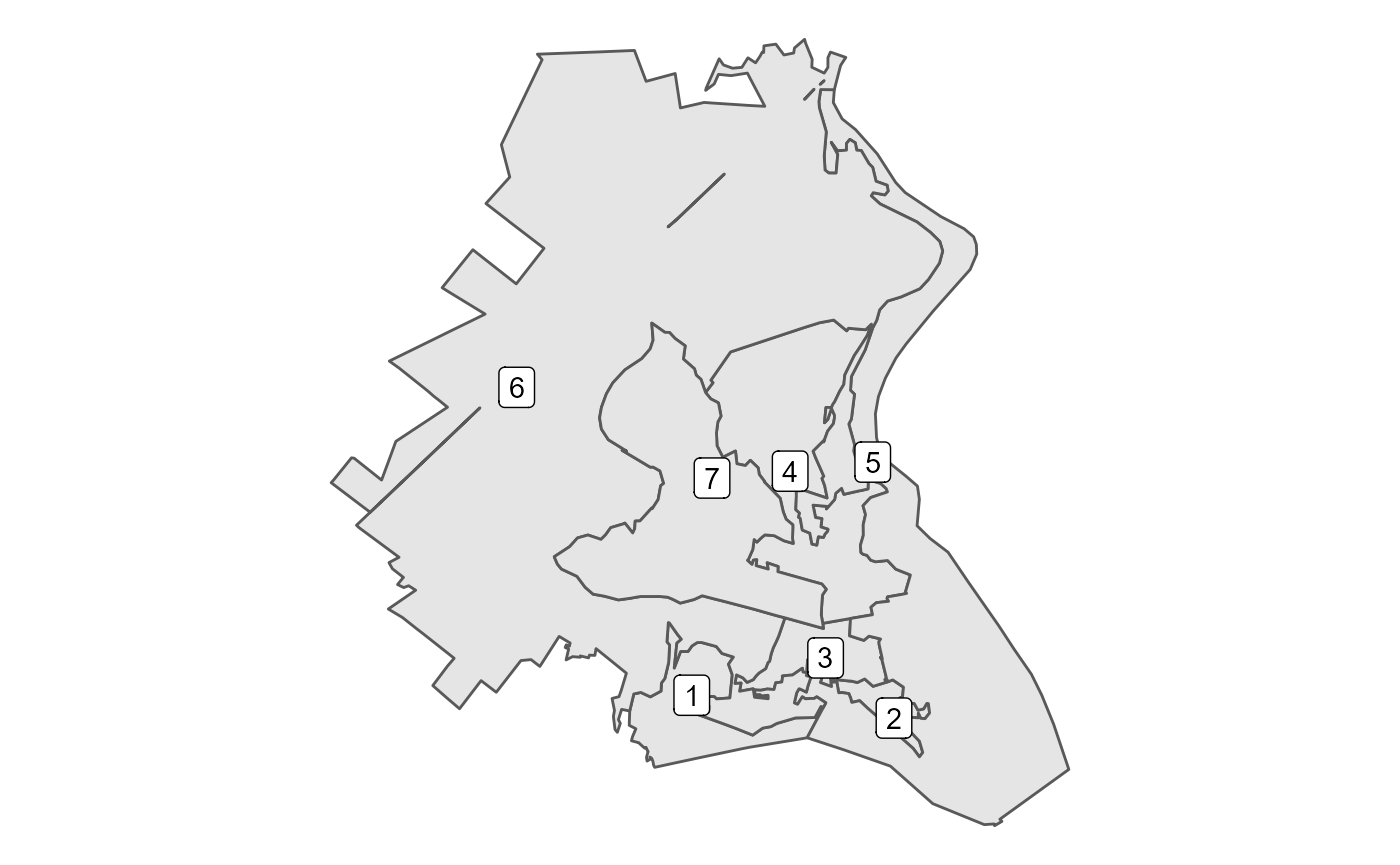
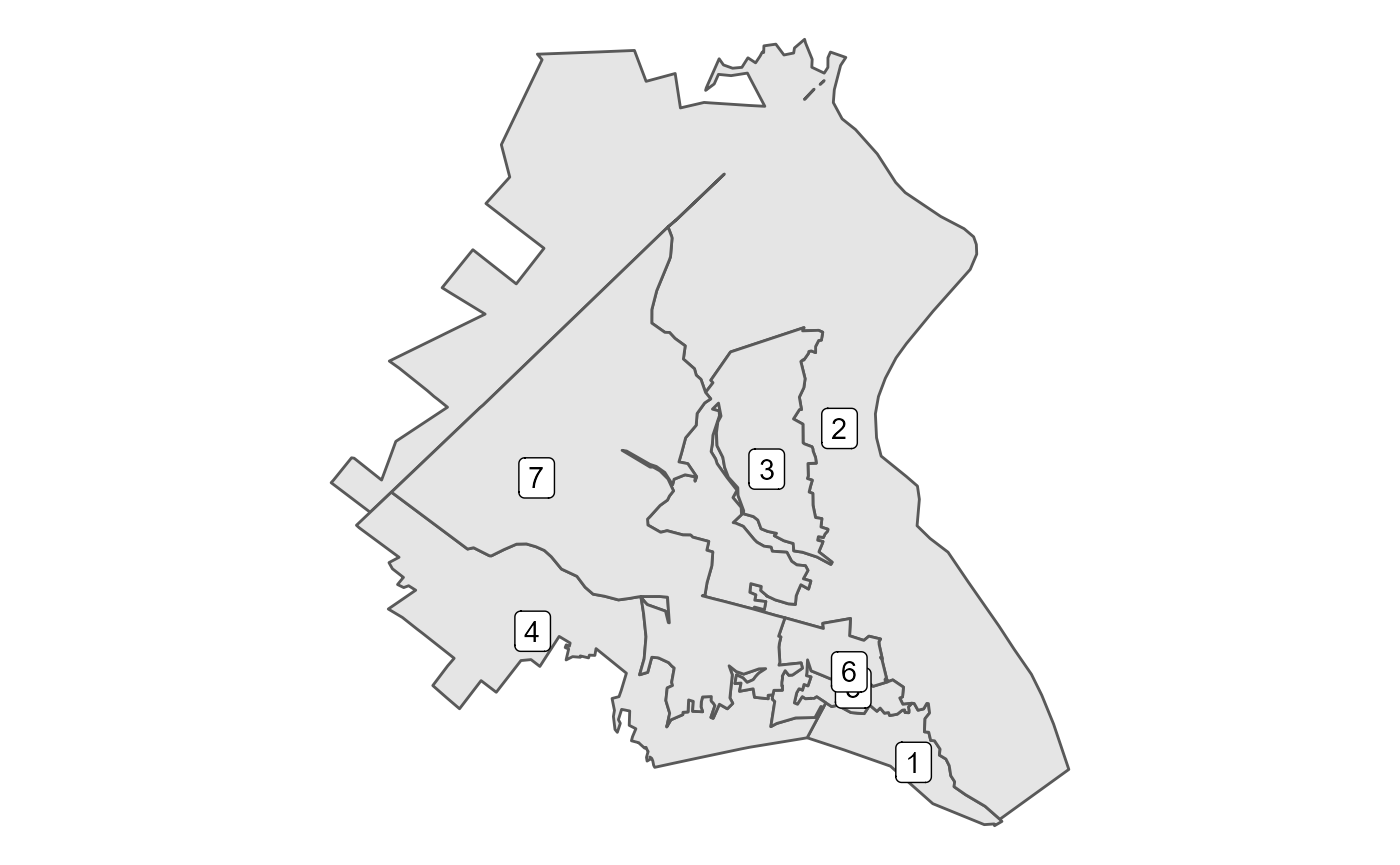
same blocks -> block

diff --git a/docs/articles/Redistricting_School_Districts.html b/docs/articles/Redistricting_School_Districts.html
@@ -109,15 +109,15 @@
 <span class="kw"><a href="https://rdrr.io/r/base/library.html">library</a></span><span class="op">(</span><span class="va"><a href="https://github.com/walkerke/tigris">tigris</a></span><span class="op">)</span></code></pre></div>
 <p>First, we want to build a block level dataset. The school district intersects two counties, though almost all of the population in the district comes from Rockland County. create_block_table allows you to build block level datasets with the primary variables needed for redistricting purposes - total population by race and voting age population (VAP) by race.</p>
 <div class="sourceCode" id="cb2"><pre class="downlit sourceCode r">
-<code class="sourceCode R"><span class="va">blocksRockland</span> <span class="op">&lt;-</span> <span class="fu"><a href="../reference/create_block_table.html">create_block_table</a></span><span class="op">(</span>state <span class="op">=</span> <span class="st">'NY'</span>, county <span class="op">=</span> <span class="st">'Rockland'</span><span class="op">)</span>
-<span class="va">blocksOrange</span> <span class="op">&lt;-</span> <span class="fu"><a href="../reference/create_block_table.html">create_block_table</a></span><span class="op">(</span>state <span class="op">=</span> <span class="st">'NY'</span>, county <span class="op">=</span> <span class="st">'Orange'</span><span class="op">)</span>
+<code class="sourceCode R"><span class="va">blockRockland</span> <span class="op">&lt;-</span> <span class="fu"><a href="../reference/create_block_table.html">create_block_table</a></span><span class="op">(</span>state <span class="op">=</span> <span class="st">'NY'</span>, county <span class="op">=</span> <span class="st">'Rockland'</span><span class="op">)</span>
+<span class="va">blockOrange</span> <span class="op">&lt;-</span> <span class="fu"><a href="../reference/create_block_table.html">create_block_table</a></span><span class="op">(</span>state <span class="op">=</span> <span class="st">'NY'</span>, county <span class="op">=</span> <span class="st">'Orange'</span><span class="op">)</span>
 
-<span class="va">blocks</span> <span class="op">&lt;-</span> <span class="fu"><a href="https://dplyr.tidyverse.org/reference/bind.html">bind_rows</a></span><span class="op">(</span><span class="va">blocksRockland</span>, <span class="va">blocksOrange</span><span class="op">)</span></code></pre></div>
+<span class="va">block</span> <span class="op">&lt;-</span> <span class="fu"><a href="https://dplyr.tidyverse.org/reference/bind.html">bind_rows</a></span><span class="op">(</span><span class="va">blockRockland</span>, <span class="va">blockOrange</span><span class="op">)</span></code></pre></div>
 <p>For this vignette, rather than running the above, we use included data. <code>orange</code> is a subset of Orange County which intersects with the school district. Rockland is the entire block dataset. These polygons are simplified using <code>rmapshaper</code> to make them smaller.</p>
 <div class="sourceCode" id="cb3"><pre class="downlit sourceCode r">
 <code class="sourceCode R"><span class="fu"><a href="https://rdrr.io/r/utils/data.html">data</a></span><span class="op">(</span><span class="st">"orange"</span><span class="op">)</span>
 <span class="fu"><a href="https://rdrr.io/r/utils/data.html">data</a></span><span class="op">(</span><span class="st">"rockland"</span><span class="op">)</span>
-<span class="va">blocks</span> <span class="op">&lt;-</span> <span class="fu"><a href="https://dplyr.tidyverse.org/reference/bind.html">bind_rows</a></span><span class="op">(</span><span class="va">rockland</span>, <span class="va">orange</span><span class="op">)</span></code></pre></div>
+<span class="va">block</span> <span class="op">&lt;-</span> <span class="fu"><a href="https://dplyr.tidyverse.org/reference/bind.html">bind_rows</a></span><span class="op">(</span><span class="va">rockland</span>, <span class="va">orange</span><span class="op">)</span></code></pre></div>
 <p>Next, we need the shape for North Rockland, which can be obtained from the R package tigris as below. The same idea holds for having target areas, such as counties or legislative districts, though they are less likely to directly use the block level data.</p>
 <div class="sourceCode" id="cb4"><pre class="downlit sourceCode r">
 <code class="sourceCode R"><span class="va">school</span> <span class="op">&lt;-</span> <span class="fu"><a href="https://rdrr.io/pkg/tigris/man/school_districts.html">school_districts</a></span><span class="op">(</span>state <span class="op">=</span> <span class="st">'NY'</span><span class="op">)</span> <span class="op">%&gt;%</span> <span class="fu"><a href="https://dplyr.tidyverse.org/reference/filter.html">filter</a></span><span class="op">(</span><span class="fu"><a href="https://stringr.tidyverse.org/reference/str_detect.html">str_detect</a></span><span class="op">(</span><span class="va">NAME</span>, <span class="st">'North Rockland'</span><span class="op">)</span><span class="op">)</span></code></pre></div>
@@ -127,35 +127,35 @@
 <span class="va">school</span> <span class="op">&lt;-</span> <span class="va">nrcsd</span></code></pre></div>
 <p>The immediate and common difficulty here is that we have nearly 15,000 blocks, but the target region, in this case the school district outlined in red is significantly smaller than that.</p>
 <div class="sourceCode" id="cb6"><pre class="downlit sourceCode r">
-<code class="sourceCode R"><span class="va">blocks</span> <span class="op">%&gt;%</span> <span class="fu"><a href="https://ggplot2.tidyverse.org/reference/ggplot.html">ggplot</a></span><span class="op">(</span><span class="op">)</span> <span class="op">+</span> 
+<code class="sourceCode R"><span class="va">block</span> <span class="op">%&gt;%</span> <span class="fu"><a href="https://ggplot2.tidyverse.org/reference/ggplot.html">ggplot</a></span><span class="op">(</span><span class="op">)</span> <span class="op">+</span> 
   <span class="fu"><a href="https://ggplot2.tidyverse.org/reference/ggsf.html">geom_sf</a></span><span class="op">(</span><span class="op">)</span> <span class="op">+</span>
   <span class="fu"><a href="https://ggplot2.tidyverse.org/reference/ggsf.html">geom_sf</a></span><span class="op">(</span>data <span class="op">=</span> <span class="va">school</span>, fill <span class="op">=</span> <span class="cn">NA</span>, color <span class="op">=</span> <span class="st">'red'</span><span class="op">)</span> <span class="op">+</span>
   <span class="fu"><a href="https://ggplot2.tidyverse.org/reference/ggtheme.html">theme_void</a></span><span class="op">(</span><span class="op">)</span></code></pre></div>
 <p><img src="Redistricting_School_Districts_files/figure-html/unnamed-chunk-5-1.png" width="700"> As a first pass, we can use the geo_filter function, which wraps sf’s st_intersects and filters only to those that intersect.</p>
 <div class="sourceCode" id="cb7"><pre class="downlit sourceCode r">
-<code class="sourceCode R"><span class="va">blocks</span> <span class="op">&lt;-</span> <span class="va">blocks</span> <span class="op">%&gt;%</span> <span class="fu"><a href="../reference/geo_filter.html">geo_filter</a></span><span class="op">(</span>to <span class="op">=</span> <span class="va">school</span><span class="op">)</span></code></pre></div>
-<p>This drops us down to 852 blocks and is a conservative filtering, as you only need to intersect at a single point.</p>
+<code class="sourceCode R"><span class="va">block</span> <span class="op">&lt;-</span> <span class="va">block</span> <span class="op">%&gt;%</span> <span class="fu"><a href="../reference/geo_filter.html">geo_filter</a></span><span class="op">(</span>to <span class="op">=</span> <span class="va">school</span><span class="op">)</span></code></pre></div>
+<p>This drops us down to 852 block and is a conservative filtering, as you only need to intersect at a single point.</p>
 <div class="sourceCode" id="cb8"><pre class="downlit sourceCode r">
-<code class="sourceCode R"><span class="va">blocks</span> <span class="op">%&gt;%</span> <span class="fu"><a href="https://dplyr.tidyverse.org/reference/mutate.html">mutate</a></span><span class="op">(</span>id <span class="op">=</span> <span class="fu"><a href="https://dplyr.tidyverse.org/reference/ranking.html">row_number</a></span><span class="op">(</span><span class="op">)</span><span class="op">)</span> <span class="op">%&gt;%</span> 
+<code class="sourceCode R"><span class="va">block</span> <span class="op">%&gt;%</span> <span class="fu"><a href="https://dplyr.tidyverse.org/reference/mutate.html">mutate</a></span><span class="op">(</span>id <span class="op">=</span> <span class="fu"><a href="https://dplyr.tidyverse.org/reference/ranking.html">row_number</a></span><span class="op">(</span><span class="op">)</span><span class="op">)</span> <span class="op">%&gt;%</span> 
   <span class="fu"><a href="https://ggplot2.tidyverse.org/reference/ggplot.html">ggplot</a></span><span class="op">(</span><span class="op">)</span> <span class="op">+</span> <span class="fu"><a href="https://ggplot2.tidyverse.org/reference/ggsf.html">geom_sf</a></span><span class="op">(</span><span class="op">)</span> <span class="op">+</span>
   <span class="fu"><a href="https://ggplot2.tidyverse.org/reference/ggsf.html">geom_sf</a></span><span class="op">(</span>data <span class="op">=</span> <span class="va">school</span>, fill <span class="op">=</span> <span class="cn">NA</span>, color <span class="op">=</span> <span class="st">'red'</span><span class="op">)</span> </code></pre></div>
 <p><img src="Redistricting_School_Districts_files/figure-html/unnamed-chunk-7-1.png" width="700"> Yet, we probably want to go further than that, getting rid of the various external pieces. We can use geo_trim to do just that. First, we want to check what would be thrown away at the default area threshold of 1%. Below, I’ve first checked what would be trimmed away, by setting bool = TRUE and plotting it.</p>
 <div class="sourceCode" id="cb9"><pre class="downlit sourceCode r">
-<code class="sourceCode R"><span class="va">blocks</span><span class="op">$</span><span class="va">trim</span> <span class="op">&lt;-</span> <span class="va">blocks</span> <span class="op">%&gt;%</span> <span class="fu"><a href="../reference/geo_trim.html">geo_trim</a></span><span class="op">(</span>to <span class="op">=</span> <span class="va">school</span>, bool <span class="op">=</span> <span class="cn">TRUE</span><span class="op">)</span></code></pre></div>
+<code class="sourceCode R"><span class="va">block</span><span class="op">$</span><span class="va">trim</span> <span class="op">&lt;-</span> <span class="va">block</span> <span class="op">%&gt;%</span> <span class="fu"><a href="../reference/geo_trim.html">geo_trim</a></span><span class="op">(</span>to <span class="op">=</span> <span class="va">school</span>, bool <span class="op">=</span> <span class="cn">TRUE</span><span class="op">)</span></code></pre></div>
 <pre><code>## Warning: attribute variables are assumed to be spatially constant throughout all
 ## geometries</code></pre>
 <div class="sourceCode" id="cb11"><pre class="downlit sourceCode r">
-<code class="sourceCode R"><span class="va">blocks</span> <span class="op">%&gt;%</span> <span class="fu"><a href="https://ggplot2.tidyverse.org/reference/ggplot.html">ggplot</a></span><span class="op">(</span><span class="op">)</span> <span class="op">+</span> <span class="fu"><a href="https://ggplot2.tidyverse.org/reference/ggsf.html">geom_sf</a></span><span class="op">(</span><span class="fu"><a href="https://ggplot2.tidyverse.org/reference/aes.html">aes</a></span><span class="op">(</span>fill <span class="op">=</span> <span class="va">trim</span><span class="op">)</span><span class="op">)</span> <span class="op">+</span> 
+<code class="sourceCode R"><span class="va">block</span> <span class="op">%&gt;%</span> <span class="fu"><a href="https://ggplot2.tidyverse.org/reference/ggplot.html">ggplot</a></span><span class="op">(</span><span class="op">)</span> <span class="op">+</span> <span class="fu"><a href="https://ggplot2.tidyverse.org/reference/ggsf.html">geom_sf</a></span><span class="op">(</span><span class="fu"><a href="https://ggplot2.tidyverse.org/reference/aes.html">aes</a></span><span class="op">(</span>fill <span class="op">=</span> <span class="va">trim</span><span class="op">)</span><span class="op">)</span> <span class="op">+</span> 
   <span class="fu"><a href="https://ggplot2.tidyverse.org/reference/ggsf.html">geom_sf</a></span><span class="op">(</span>data <span class="op">=</span> <span class="va">school</span>, fill <span class="op">=</span> <span class="cn">NA</span>, lwd <span class="op">=</span> <span class="fl">1.5</span><span class="op">)</span></code></pre></div>
 <p><img src="Redistricting_School_Districts_files/figure-html/unnamed-chunk-8-1.png" width="700"></p>
 <p>To me, it looks like we are subsetting correctly with this threshold, so we actually trim away this time.</p>
 <div class="sourceCode" id="cb12"><pre class="downlit sourceCode r">
-<code class="sourceCode R"><span class="va">blocks</span> <span class="op">&lt;-</span> <span class="va">blocks</span> <span class="op">%&gt;%</span> <span class="fu"><a href="../reference/geo_trim.html">geo_trim</a></span><span class="op">(</span>to <span class="op">=</span> <span class="va">school</span><span class="op">)</span></code></pre></div>
+<code class="sourceCode R"><span class="va">block</span> <span class="op">&lt;-</span> <span class="va">block</span> <span class="op">%&gt;%</span> <span class="fu"><a href="../reference/geo_trim.html">geo_trim</a></span><span class="op">(</span>to <span class="op">=</span> <span class="va">school</span><span class="op">)</span></code></pre></div>
 <pre><code>## Warning: attribute variables are assumed to be spatially constant throughout all
 ## geometries</code></pre>
 <p>And indeed, just plotting the block geographies looks like the school district from before. The edges will be a bit off due to polygon simplification.</p>
 <div class="sourceCode" id="cb14"><pre class="downlit sourceCode r">
-<code class="sourceCode R"><span class="va">blocks</span> <span class="op">%&gt;%</span> <span class="fu"><a href="https://ggplot2.tidyverse.org/reference/ggplot.html">ggplot</a></span><span class="op">(</span><span class="op">)</span> <span class="op">+</span>
+<code class="sourceCode R"><span class="va">block</span> <span class="op">%&gt;%</span> <span class="fu"><a href="https://ggplot2.tidyverse.org/reference/ggplot.html">ggplot</a></span><span class="op">(</span><span class="op">)</span> <span class="op">+</span>
   <span class="fu"><a href="https://ggplot2.tidyverse.org/reference/ggsf.html">geom_sf</a></span><span class="op">(</span><span class="op">)</span> <span class="op">+</span>
   <span class="fu"><a href="https://ggplot2.tidyverse.org/reference/ggtheme.html">theme_void</a></span><span class="op">(</span><span class="op">)</span> <span class="op">+</span> 
   <span class="fu"><a href="https://ggplot2.tidyverse.org/reference/ggsf.html">geom_sf</a></span><span class="op">(</span>data <span class="op">=</span> <span class="va">school</span>, color <span class="op">=</span> <span class="st">'red'</span>, fill <span class="op">=</span> <span class="cn">NA</span><span class="op">)</span></code></pre></div>
@@ -164,57 +164,57 @@
 <div class="sourceCode" id="cb15"><pre class="downlit sourceCode r">
 <code class="sourceCode R"><span class="fu"><a href="https://rdrr.io/r/utils/data.html">data</a></span><span class="op">(</span><span class="st">"towns"</span><span class="op">)</span>
 
-<span class="va">blocks</span> <span class="op">%&gt;%</span> <span class="fu"><a href="https://ggplot2.tidyverse.org/reference/ggplot.html">ggplot</a></span><span class="op">(</span><span class="op">)</span> <span class="op">+</span>
+<span class="va">block</span> <span class="op">%&gt;%</span> <span class="fu"><a href="https://ggplot2.tidyverse.org/reference/ggplot.html">ggplot</a></span><span class="op">(</span><span class="op">)</span> <span class="op">+</span>
   <span class="fu"><a href="https://ggplot2.tidyverse.org/reference/ggsf.html">geom_sf</a></span><span class="op">(</span><span class="op">)</span> <span class="op">+</span>
   <span class="fu"><a href="https://ggplot2.tidyverse.org/reference/ggtheme.html">theme_void</a></span><span class="op">(</span><span class="op">)</span> <span class="op">+</span>
   <span class="fu"><a href="https://ggplot2.tidyverse.org/reference/ggsf.html">geom_sf</a></span><span class="op">(</span>data <span class="op">=</span> <span class="va">towns</span>, <span class="fu"><a href="https://ggplot2.tidyverse.org/reference/aes.html">aes</a></span><span class="op">(</span>fill <span class="op">=</span> <span class="fu"><a href="https://rdrr.io/r/base/character.html">as.character</a></span><span class="op">(</span><span class="va">ID</span><span class="op">)</span><span class="op">)</span><span class="op">)</span></code></pre></div>
 <p><img src="Redistricting_School_Districts_files/figure-html/data-1.png" width="700"></p>
 <p>From this, we can then try to match our blocks to towns. I use the default setting, which relies on st_centerish, which comes from st_centroid when the centroid is within the shape and otherwise relies on st_point_on_surface to ensure that we are only matching by points within a shape.</p>
 <div class="sourceCode" id="cb16"><pre class="downlit sourceCode r">
-<code class="sourceCode R"><span class="va">matched</span> <span class="op">&lt;-</span> <span class="fu"><a href="../reference/geo_match.html">geo_match</a></span><span class="op">(</span>from <span class="op">=</span> <span class="va">blocks</span>, to <span class="op">=</span> <span class="va">towns</span><span class="op">)</span></code></pre></div>
+<code class="sourceCode R"><span class="va">matched</span> <span class="op">&lt;-</span> <span class="fu"><a href="../reference/geo_match.html">geo_match</a></span><span class="op">(</span>from <span class="op">=</span> <span class="va">block</span>, to <span class="op">=</span> <span class="va">towns</span><span class="op">)</span></code></pre></div>
 <p>Now, I’ve used the default tiebreaker setting, which assigns all blocks to a town, even if they do not overlap.</p>
 <div class="sourceCode" id="cb17"><pre class="downlit sourceCode r">
-<code class="sourceCode R"><span class="va">blocks</span> <span class="op">%&gt;%</span> 
+<code class="sourceCode R"><span class="va">block</span> <span class="op">%&gt;%</span> 
   <span class="fu"><a href="https://ggplot2.tidyverse.org/reference/ggplot.html">ggplot</a></span><span class="op">(</span><span class="op">)</span> <span class="op">+</span>
   <span class="fu"><a href="https://ggplot2.tidyverse.org/reference/ggsf.html">geom_sf</a></span><span class="op">(</span><span class="fu"><a href="https://ggplot2.tidyverse.org/reference/aes.html">aes</a></span><span class="op">(</span>fill <span class="op">=</span> <span class="fu"><a href="https://rdrr.io/r/base/character.html">as.character</a></span><span class="op">(</span><span class="va">matched</span><span class="op">)</span><span class="op">)</span><span class="op">)</span> <span class="op">+</span>
   <span class="fu"><a href="https://ggplot2.tidyverse.org/reference/ggtheme.html">theme_void</a></span><span class="op">(</span><span class="op">)</span> <span class="op">+</span>
   <span class="fu"><a href="https://ggplot2.tidyverse.org/reference/labs.html">labs</a></span><span class="op">(</span>fill <span class="op">=</span> <span class="st">'Match'</span><span class="op">)</span></code></pre></div>
 <p><img src="Redistricting_School_Districts_files/figure-html/unnamed-chunk-12-1.png" width="700"> So, we want to make two particular edits to the outcome. First, we create a fake Orange County Town for the blocks that come from Orange County, though there are only a few dozen people who live in those blocks.</p>
 <div class="sourceCode" id="cb18"><pre class="downlit sourceCode r">
-<code class="sourceCode R"><span class="va">blocks</span> <span class="op">&lt;-</span> <span class="va">blocks</span> <span class="op">%&gt;%</span> <span class="fu"><a href="https://dplyr.tidyverse.org/reference/mutate.html">mutate</a></span><span class="op">(</span>TownID <span class="op">=</span> <span class="va">matched</span><span class="op">)</span> <span class="op">%&gt;%</span> 
+<code class="sourceCode R"><span class="va">block</span> <span class="op">&lt;-</span> <span class="va">block</span> <span class="op">%&gt;%</span> <span class="fu"><a href="https://dplyr.tidyverse.org/reference/mutate.html">mutate</a></span><span class="op">(</span>TownID <span class="op">=</span> <span class="va">matched</span><span class="op">)</span> <span class="op">%&gt;%</span> 
   <span class="fu"><a href="https://dplyr.tidyverse.org/reference/mutate.html">mutate</a></span><span class="op">(</span>TownID <span class="op">=</span> <span class="fu"><a href="https://rdrr.io/r/base/ifelse.html">ifelse</a></span><span class="op">(</span><span class="va">county</span> <span class="op">!=</span> <span class="st">'087'</span>, <span class="fl">8</span>, <span class="va">TownID</span><span class="op">)</span><span class="op">)</span> </code></pre></div>
-<p>Second, we can see that one block in 7 was matched to 1 because it didn’t properly intersect the towns and thus went for the closest town by distance between their centroids. The same issue happened for two blocks in Di</p>
+<p>Second, we can see that one block in 7 was matched to 1 because it didn’t properly intersect the towns and thus went for the closest town by distance between their centroids. A similar issue occured for two other blocks.</p>
 <p>Now, to figure out what’s going on and try to clean it up, we can build an adjacency graph for each block by town and see which pieces are discontinuous.</p>
 <div class="sourceCode" id="cb19"><pre class="downlit sourceCode r">
-<code class="sourceCode R"><span class="va">adj</span> <span class="op">&lt;-</span> <span class="fu"><a href="https://alarm-redist.github.io/redist/reference/redist.adjacency.html">redist.adjacency</a></span><span class="op">(</span>shp <span class="op">=</span> <span class="va">blocks</span><span class="op">)</span>
+<code class="sourceCode R"><span class="va">adj</span> <span class="op">&lt;-</span> <span class="fu"><a href="https://alarm-redist.github.io/redist/reference/redist.adjacency.html">redist.adjacency</a></span><span class="op">(</span>shp <span class="op">=</span> <span class="va">block</span><span class="op">)</span>
 
-<span class="va">comp</span> <span class="op">&lt;-</span> <span class="fu"><a href="../reference/check_contiguity.html">check_contiguity</a></span><span class="op">(</span>adjacency <span class="op">=</span> <span class="va">adj</span>, group <span class="op">=</span> <span class="va">blocks</span><span class="op">$</span><span class="va">TownID</span><span class="op">)</span>
+<span class="va">comp</span> <span class="op">&lt;-</span> <span class="fu"><a href="../reference/check_contiguity.html">check_contiguity</a></span><span class="op">(</span>adjacency <span class="op">=</span> <span class="va">adj</span>, group <span class="op">=</span> <span class="va">block</span><span class="op">$</span><span class="va">TownID</span><span class="op">)</span>
 
 <span class="fu"><a href="https://rdrr.io/r/base/which.html">which</a></span><span class="op">(</span><span class="va">comp</span><span class="op">$</span><span class="va">component</span> <span class="op">&gt;</span> <span class="fl">1</span><span class="op">)</span></code></pre></div>
 <pre><code>## [1] 576 586 591</code></pre>
 <p>Then, using that information, we can figure out three of these need to be renamed.</p>
 <div class="sourceCode" id="cb21"><pre class="downlit sourceCode r">
-<code class="sourceCode R"><span class="va">blocks</span><span class="op">$</span><span class="va">TownID</span><span class="op">[</span><span class="fl">409</span><span class="op">]</span> <span class="op">&lt;-</span> <span class="fl">7</span>
-<span class="va">blocks</span><span class="op">$</span><span class="va">TownID</span><span class="op">[</span><span class="fl">586</span><span class="op">]</span> <span class="op">&lt;-</span> <span class="fl">2</span>
-<span class="va">blocks</span><span class="op">$</span><span class="va">TownID</span><span class="op">[</span><span class="fl">591</span><span class="op">]</span> <span class="op">&lt;-</span> <span class="fl">4</span></code></pre></div>
+<code class="sourceCode R"><span class="va">block</span><span class="op">$</span><span class="va">TownID</span><span class="op">[</span><span class="fl">409</span><span class="op">]</span> <span class="op">&lt;-</span> <span class="fl">7</span>
+<span class="va">block</span><span class="op">$</span><span class="va">TownID</span><span class="op">[</span><span class="fl">586</span><span class="op">]</span> <span class="op">&lt;-</span> <span class="fl">2</span>
+<span class="va">block</span><span class="op">$</span><span class="va">TownID</span><span class="op">[</span><span class="fl">591</span><span class="op">]</span> <span class="op">&lt;-</span> <span class="fl">4</span></code></pre></div>
 <p>Now all towns are completely connected or contiguous.</p>
 <div class="sourceCode" id="cb22"><pre class="downlit sourceCode r">
-<code class="sourceCode R"><span class="va">comp</span> <span class="op">&lt;-</span> <span class="fu"><a href="../reference/check_contiguity.html">check_contiguity</a></span><span class="op">(</span>adjacency <span class="op">=</span> <span class="va">adj</span>, group <span class="op">=</span> <span class="va">blocks</span><span class="op">$</span><span class="va">TownID</span><span class="op">)</span>
+<code class="sourceCode R"><span class="va">comp</span> <span class="op">&lt;-</span> <span class="fu"><a href="../reference/check_contiguity.html">check_contiguity</a></span><span class="op">(</span>adjacency <span class="op">=</span> <span class="va">adj</span>, group <span class="op">=</span> <span class="va">block</span><span class="op">$</span><span class="va">TownID</span><span class="op">)</span>
 
 <span class="fu"><a href="https://rdrr.io/r/base/which.html">which</a></span><span class="op">(</span><span class="va">comp</span><span class="op">$</span><span class="va">component</span> <span class="op">&gt;</span> <span class="fl">1</span><span class="op">)</span></code></pre></div>
 <pre><code>## integer(0)</code></pre>
 <p>Finally, we have the data in a simulation-ready state! We can now use the adjacency list created above with redist.adjacency to run a simulation using redist.smc. See <a href="https://alarm-redist.github.io/">the redist package</a> for more information about what’s going on here.</p>
 <div class="sourceCode" id="cb24"><pre class="downlit sourceCode r">
-<code class="sourceCode R"><span class="va">map</span> <span class="op">&lt;-</span> <span class="fu"><a href="https://alarm-redist.github.io/redist/reference/redist_map.html">redist_map</a></span><span class="op">(</span><span class="va">blocks</span>, pop_tol <span class="op">=</span> <span class="fl">0.01</span>, ndists <span class="op">=</span> <span class="fl">7</span>, adj <span class="op">=</span> <span class="va">adj</span><span class="op">)</span></code></pre></div>
+<code class="sourceCode R"><span class="va">map</span> <span class="op">&lt;-</span> <span class="fu"><a href="https://alarm-redist.github.io/redist/reference/redist_map.html">redist_map</a></span><span class="op">(</span><span class="va">block</span>, pop_tol <span class="op">=</span> <span class="fl">0.01</span>, ndists <span class="op">=</span> <span class="fl">7</span>, adj <span class="op">=</span> <span class="va">adj</span><span class="op">)</span></code></pre></div>
 <pre><code>## Projecting to CRS 3857</code></pre>
 <div class="sourceCode" id="cb26"><pre class="downlit sourceCode r">
 <code class="sourceCode R"><span class="va">sims005</span> <span class="op">&lt;-</span> <span class="fu"><a href="https://alarm-redist.github.io/redist/reference/redist_smc.html">redist_smc</a></span><span class="op">(</span><span class="va">map</span>, nsims <span class="op">=</span> <span class="fl">500</span>, counties <span class="op">=</span> <span class="va">TownID</span>, silent <span class="op">=</span> <span class="cn">TRUE</span><span class="op">)</span>
 
 <span class="va">plans</span> <span class="op">&lt;-</span> <span class="fu"><a href="https://alarm-redist.github.io/redist/reference/get_plans_matrix.html">get_plans_matrix</a></span><span class="op">(</span><span class="va">sims005</span><span class="op">)</span> <span class="op">%&gt;%</span> <span class="fu"><a href="https://rdrr.io/r/base/unique.html">unique</a></span><span class="op">(</span>MARGIN  <span class="op">=</span> <span class="fl">2</span><span class="op">)</span>
 
-<span class="va">par</span> <span class="op">&lt;-</span> <span class="fu"><a href="https://alarm-redist.github.io/redist/reference/redist.parity.html">redist.parity</a></span><span class="op">(</span>plans <span class="op">=</span> <span class="va">plans</span>, total_pop <span class="op">=</span> <span class="va">blocks</span><span class="op">$</span><span class="va">pop</span><span class="op">)</span>
+<span class="va">par</span> <span class="op">&lt;-</span> <span class="fu"><a href="https://alarm-redist.github.io/redist/reference/redist.parity.html">redist.parity</a></span><span class="op">(</span>plans <span class="op">=</span> <span class="va">plans</span>, total_pop <span class="op">=</span> <span class="va">block</span><span class="op">$</span><span class="va">pop</span><span class="op">)</span>
 
-<span class="va">comp</span> <span class="op">&lt;-</span> <span class="fu"><a href="https://alarm-redist.github.io/redist/reference/redist.compactness.html">redist.compactness</a></span><span class="op">(</span>shp <span class="op">=</span> <span class="va">blocks</span>, plans <span class="op">=</span> <span class="va">plans</span>, adj <span class="op">=</span> <span class="va">adj</span>, measure <span class="op">=</span> <span class="st">'EdgesRemoved'</span><span class="op">)</span>
+<span class="va">comp</span> <span class="op">&lt;-</span> <span class="fu"><a href="https://alarm-redist.github.io/redist/reference/redist.compactness.html">redist.compactness</a></span><span class="op">(</span>shp <span class="op">=</span> <span class="va">block</span>, plans <span class="op">=</span> <span class="va">plans</span>, adj <span class="op">=</span> <span class="va">adj</span>, measure <span class="op">=</span> <span class="st">'EdgesRemoved'</span><span class="op">)</span>
 
 <span class="va">comp_m</span> <span class="op">&lt;-</span> <span class="va">comp</span> <span class="op">%&gt;%</span> <span class="fu"><a href="https://dplyr.tidyverse.org/reference/group_by.html">group_by</a></span><span class="op">(</span><span class="va">draw</span><span class="op">)</span> <span class="op">%&gt;%</span> <span class="fu"><a href="https://dplyr.tidyverse.org/reference/summarise.html">summarize</a></span><span class="op">(</span>mean <span class="op">=</span> <span class="fu"><a href="https://rdrr.io/r/base/mean.html">mean</a></span><span class="op">(</span><span class="va">EdgesRemoved</span><span class="op">)</span><span class="op">)</span>
 
@@ -222,24 +222,24 @@
 <p>In short, the above uses a Sequential Monte Carlo algorithm to draw 500 compact districts that try to preserve towns. From those, I pick a map that is on average, pretty compact.</p>
 <p>Using that choice of districts, we can then summarize the block level data, using block2prec, but in this case it is summarizing to a ward level.</p>
 <div class="sourceCode" id="cb27"><pre class="downlit sourceCode r">
-<code class="sourceCode R"><span class="va">smry</span> <span class="op">&lt;-</span> <span class="fu"><a href="../reference/block2prec.html">block2prec</a></span><span class="op">(</span><span class="va">blocks</span>, matches <span class="op">=</span> <span class="va">plans</span><span class="op">[</span>,<span class="va">pick</span><span class="op">]</span><span class="op">)</span></code></pre></div>
+<code class="sourceCode R"><span class="va">smry</span> <span class="op">&lt;-</span> <span class="fu"><a href="../reference/block2prec.html">block2prec</a></span><span class="op">(</span><span class="va">block</span>, matches <span class="op">=</span> <span class="va">plans</span><span class="op">[</span>,<span class="va">pick</span><span class="op">]</span><span class="op">)</span></code></pre></div>
 <p>Then we have the basic information we want and we can look at the VAP data to see that we have one majority minority Hispanic ward and one potential coalition ward.</p>
 <div class="sourceCode" id="cb28"><pre class="downlit sourceCode r">
 <code class="sourceCode R"><span class="va">smry</span> <span class="op">%&gt;%</span> <span class="fu"><a href="https://dplyr.tidyverse.org/reference/select.html">select</a></span><span class="op">(</span><span class="va">matches_id</span>, <span class="fu"><a href="https://tidyselect.r-lib.org/reference/starts_with.html">starts_with</a></span><span class="op">(</span><span class="st">'vap'</span><span class="op">)</span><span class="op">)</span></code></pre></div>
 <pre><code>## # A tibble: 7 x 10
 ##   matches_id   vap vap_hisp vap_white vap_black vap_aian vap_asian vap_nhpi
 ##        &lt;dbl&gt; &lt;dbl&gt;    &lt;dbl&gt;     &lt;dbl&gt;     &lt;dbl&gt;    &lt;dbl&gt;     &lt;dbl&gt;    &lt;dbl&gt;
-## 1          1  5459      895      3485       701        8       301        0
-## 2          2  4881     3490       775       457        9        98        0
-## 3          3  5137     1965      2263       640        5       178        0
-## 4          4  5333      624      4401       141        4       111        2
-## 5          5  5252     2537      1677       761        9       209        2
-## 6          6  5212      979      3599       385        8       192        1
-## 7          7  5186      542      4230       181        3       181        0
+## 1          1  5086     3174      1263       460       10       120        1
+## 2          2  5344      704      4313       155        9       104        1
+## 3          3  5163      472      4378       135        0       138        1
+## 4          4  5421      910      3387       733        3       312        0
+## 5          5  5116     2882      1193       781        8       200        1
+## 6          6  5058     2036      2095       642        7       195        1
+## 7          7  5272      854      3801       360        9       201        0
 ## # ... with 2 more variables: vap_other &lt;dbl&gt;, vap_two &lt;dbl&gt;</code></pre>
 <p>And finally, we can also use block2prec to join the geometries of the wards to plot:</p>
 <div class="sourceCode" id="cb30"><pre class="downlit sourceCode r">
-<code class="sourceCode R"><span class="fu"><a href="../reference/block2prec.html">block2prec</a></span><span class="op">(</span><span class="va">blocks</span>, matches <span class="op">=</span> <span class="va">plans</span><span class="op">[</span>,<span class="va">pick</span><span class="op">]</span>, geometry <span class="op">=</span> <span class="cn">TRUE</span><span class="op">)</span> <span class="op">%&gt;%</span> 
+<code class="sourceCode R"><span class="fu"><a href="../reference/block2prec.html">block2prec</a></span><span class="op">(</span><span class="va">block</span>, matches <span class="op">=</span> <span class="va">plans</span><span class="op">[</span>,<span class="va">pick</span><span class="op">]</span>, geometry <span class="op">=</span> <span class="cn">TRUE</span><span class="op">)</span> <span class="op">%&gt;%</span> 
   <span class="fu"><a href="https://ggplot2.tidyverse.org/reference/ggplot.html">ggplot</a></span><span class="op">(</span><span class="op">)</span> <span class="op">+</span> 
   <span class="fu"><a href="https://ggplot2.tidyverse.org/reference/ggsf.html">geom_sf</a></span><span class="op">(</span><span class="op">)</span> <span class="op">+</span> 
   <span class="fu"><a href="https://ggplot2.tidyverse.org/reference/ggtheme.html">theme_void</a></span><span class="op">(</span><span class="op">)</span> <span class="op">+</span>
